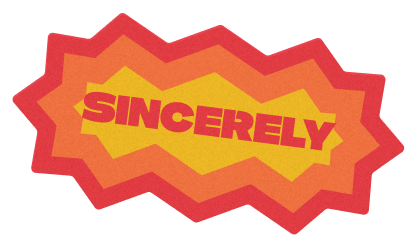
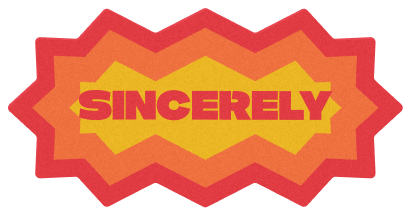
style: 스티커 위치 지정

diff --git a/apps/asterum_traveler-app/src/components/landing/DearWall.tsx b/apps/asterum_traveler-app/src/components/landing/DearWall.tsx
@@ -1,0 +1,82 @@
+import styled from 'styled-components';
+import sticker1 from '../../assets/images/landing/dearWall/sticker_1.png';
+import sticker2 from '../../assets/images/landing/dearWall/sticker_2.png';
+import sticker3 from '../../assets/images/landing/dearWall/sticker_3.png';
+import sticker4 from '../../assets/images/landing/dearWall/sticker_4.png';
+import sticker5 from '../../assets/images/landing/dearWall/sticker_5.png';
+import sticker6 from '../../assets/images/landing/dearWall/sticker_6.png';
+import sticker7 from '../../assets/images/landing/dearWall/sticker_7.png';
+import sticker8 from '../../assets/images/landing/dearWall/sticker_8.png';
+import sticker9 from '../../assets/images/landing/dearWall/sticker_9.png';
+import sticker10 from '../../assets/images/landing/dearWall/sticker_10.png';
+import sticker11 from '../../assets/images/landing/dearWall/sticker_11.png';
+
+function DearWall() {
+  return (
+    <Wrapper>
+      <Sticker src={sticker1} width={207} height={145} top={839} right={281} />
+      <Sticker src={sticker2} width={160} height={160} top={313} right={270} />
+      <Sticker src={sticker3} width={200} height={140} top={488} left={151} />
+      <Sticker
+        src={sticker4}
+        width={187}
+        height={334}
+        top={133}
+        right={475}
+        transform="rotate(13.756deg)"
+      />
+      <Sticker src={sticker5} width={133} height={133} top={705} right={105} />
+      <Sticker src={sticker6} width={100} height={100} top={890} left={359} />
+      <Sticker src={sticker7} width={184} height={184} top={501} left={819} />
+      <Sticker
+        src={sticker8}
+        width={166}
+        height={209}
+        top={726}
+        left={192}
+        transform="rotate(38.575deg)"
+      />
+      <Sticker
+        src={sticker9}
+        width={395}
+        height={199}
+        top={794}
+        right={608}
+        transform="rotate(7.268deg)"
+      />
+      <Sticker src={sticker10} width={206} height={199} top={58} right={156} />
+      <Sticker src={sticker11} width={122} height={115} top={87} right={674} />
+    </Wrapper>
+  );
+}
+
+const Wrapper = styled.div`
+  width: 100%;
+  height: 1080px;
+  position: relative;
+  border: 1px solid blue;
+  color: #fff;
+  font-size: 200px;
+  padding: 50px 0;
+`;
+
+interface StickerProps {
+  width: number;
+  height: number;
+  top: number;
+  left?: number;
+  right?: number;
+  transform?: string;
+}
+
+const Sticker = styled.img<StickerProps>`
+  position: absolute;
+  width: ${(props) => (props.width ? `${props.width}px` : 'auto')};
+  height: ${(props) => (props.height ? `${props.height}px` : 'auto')};
+  top: ${(props) => `${props.top}px`};
+  left: ${(props) => (props.left ? `${props.left}px` : 'auto')};
+  right: ${(props) => (props.right ? `${props.right}px` : 'auto')};
+  transform: ${(props) => props.transform || ''};
+`;
+
+export default DearWall;
